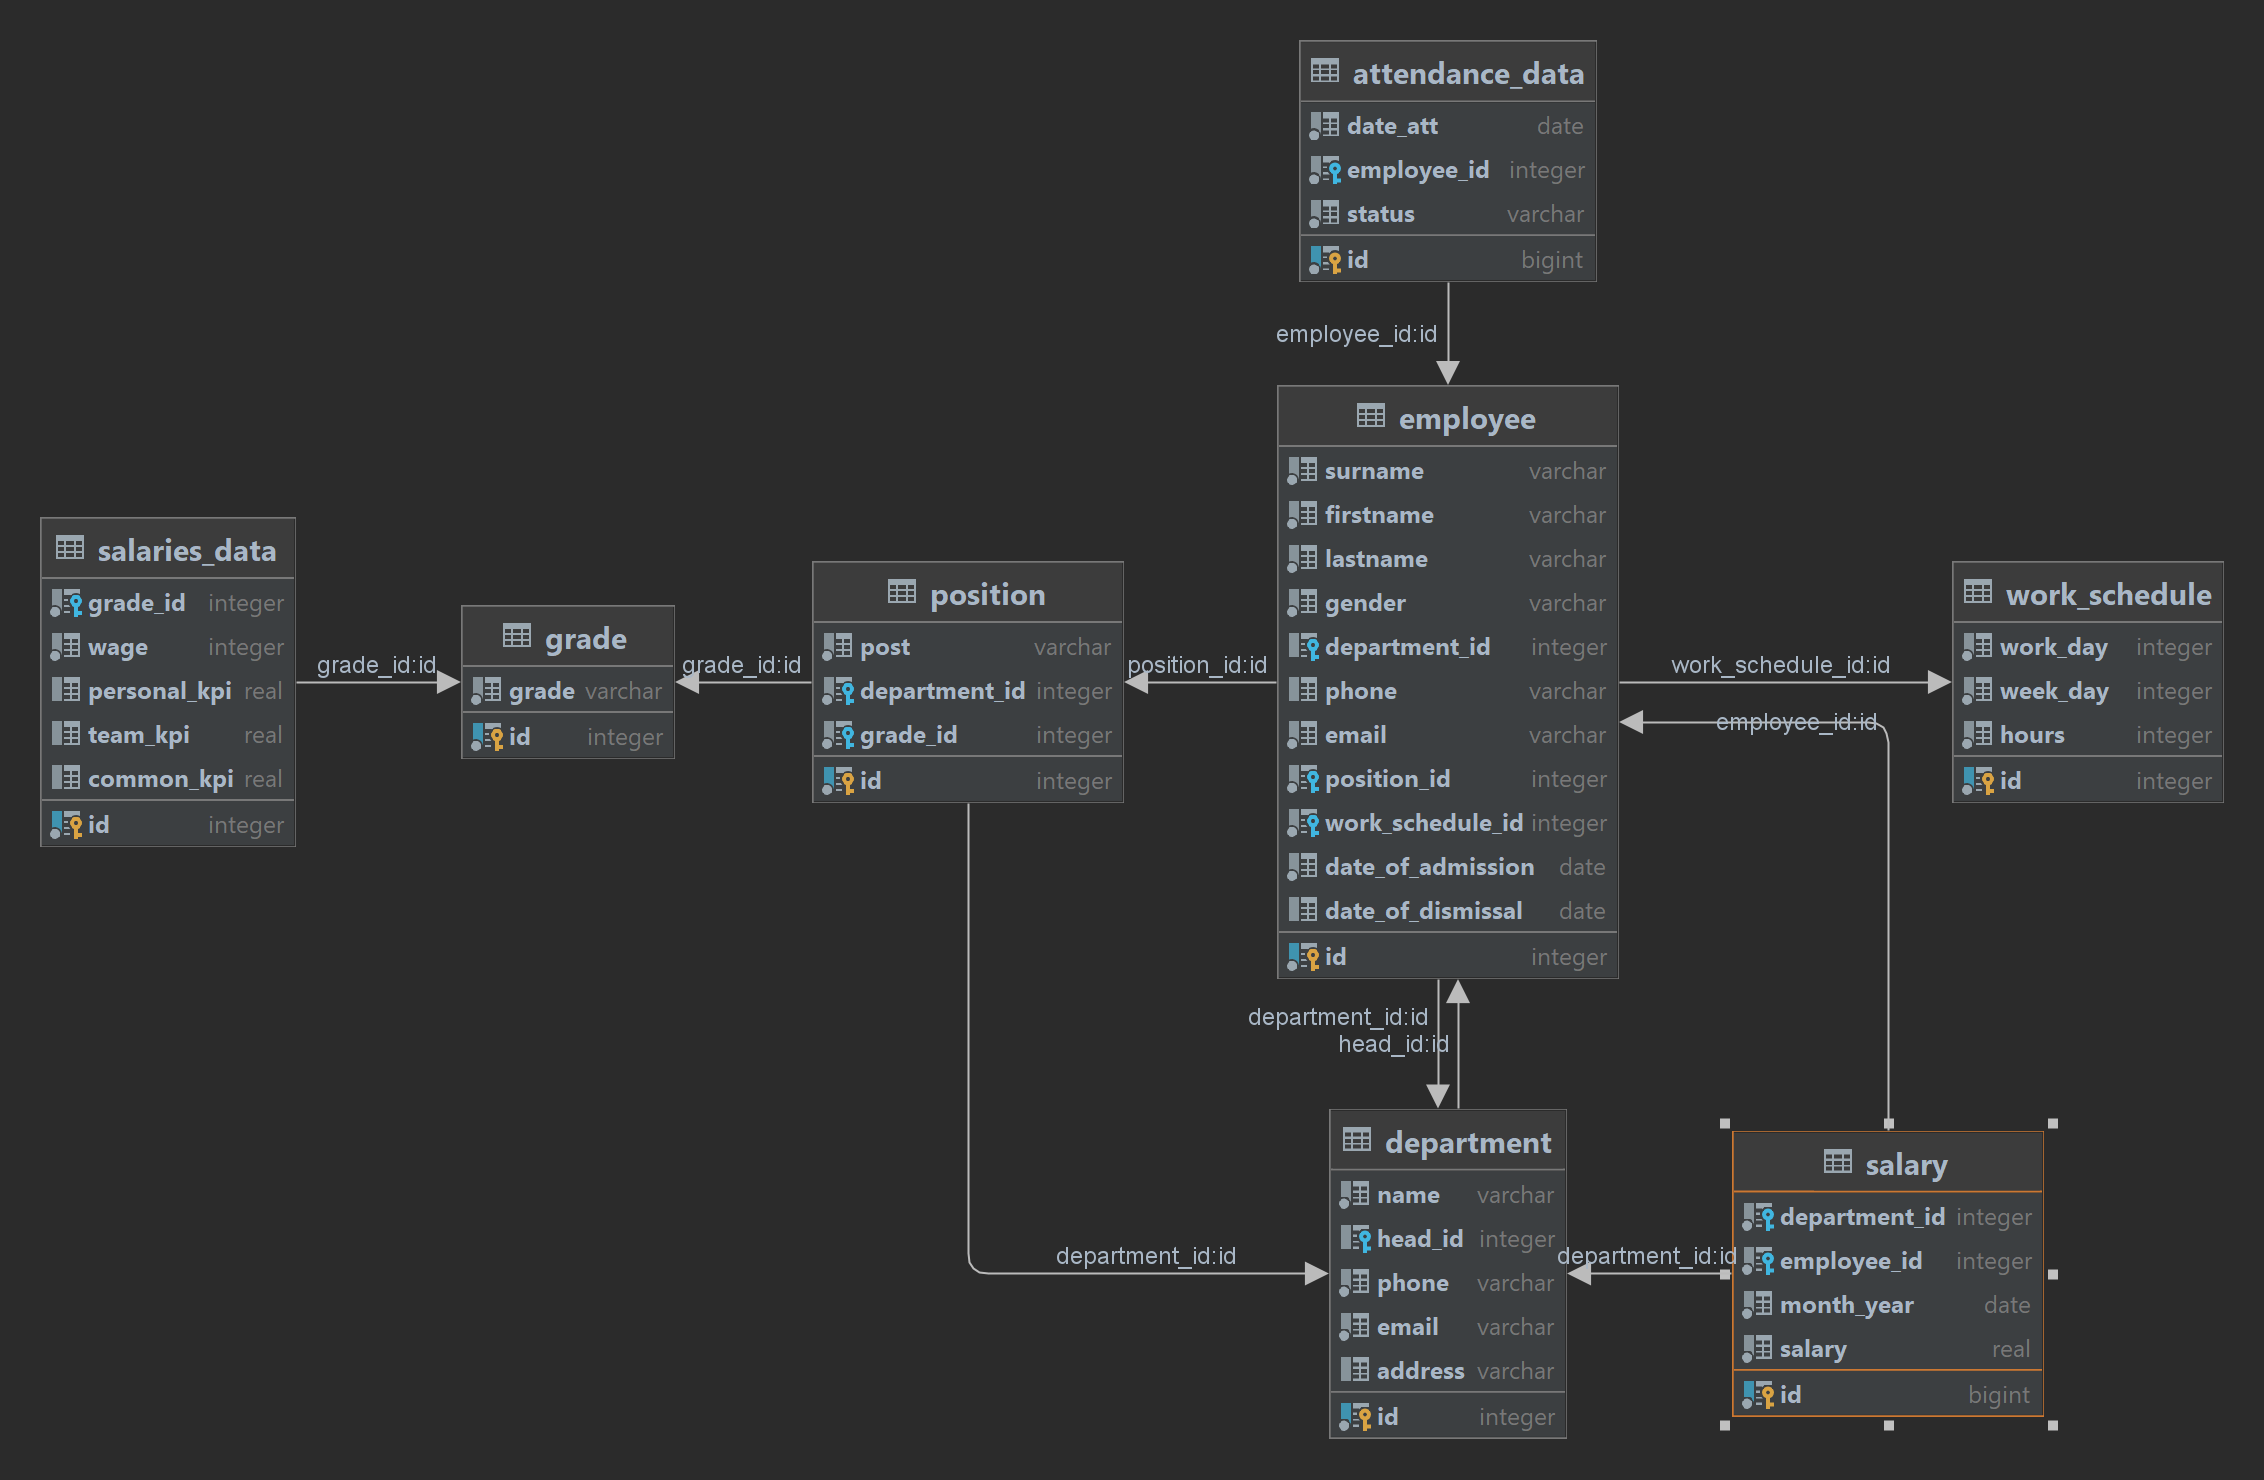
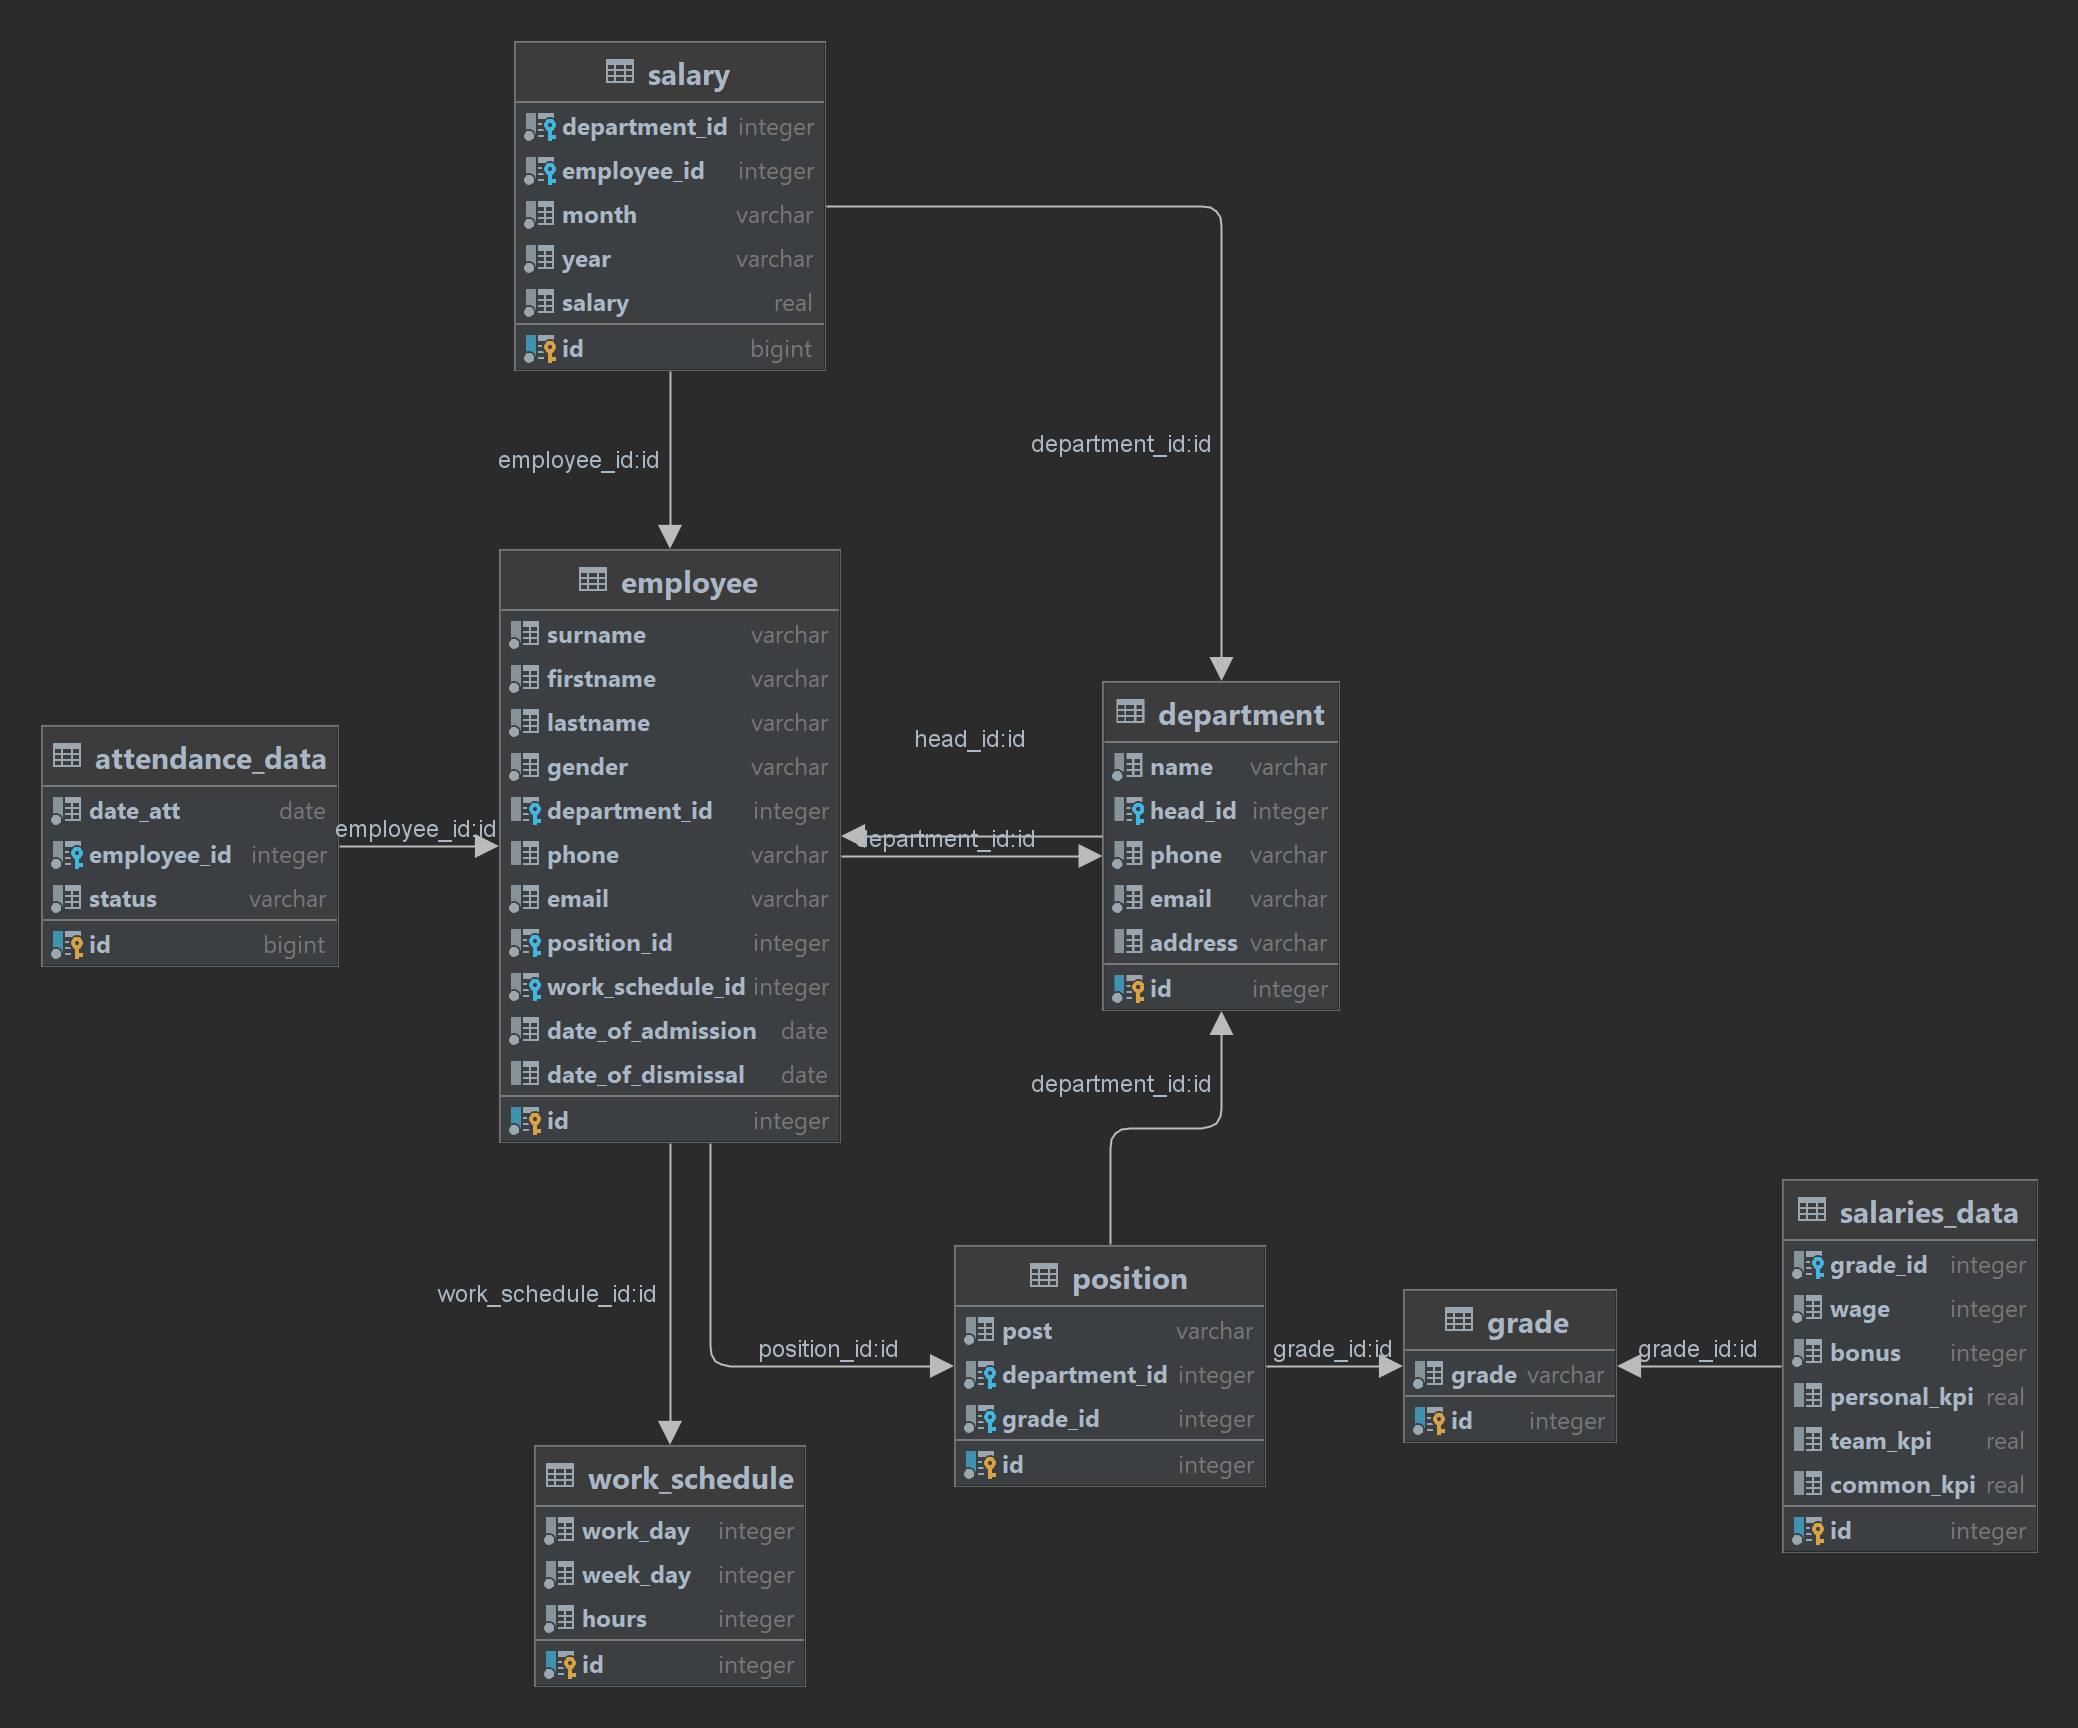
Fixed: add new db diagram

diff --git a/src/main/java/com/anybank/bankemployeessalaries/dao/impl/DepartmentDaoImpl.java b/src/main/java/com/anybank/bankemployeessalaries/dao/impl/DepartmentDaoImpl.java
@@ -144,7 +144,7 @@ public class DepartmentDaoImpl implements DepartmentDao {
         Department department = Department.builder()
                 .id(rs.getInt("id"))
                 .name(rs.getString("name"))
-                .head(employeeDao.findEmployeeById(rs.getString("head_id")))
+                .head(employeeDao.findEmployeeById(rs.getInt("head_id")))
                 .phone(rs.getString("phone"))
                 .email(rs.getString("email"))
                 .address(rs.getString("address"))

diff --git a/README.md b/README.md
@@ -33,7 +33,7 @@ public class BankEmployeesSalariesApplication {
 
 #### ER-диаграмма базы данных для приложения:
 
-![This is ER-diagramme](database_AES_v2.png)
+![This is ER-diagramme](AnyBankV1.png)
 
 <!-- #### Примеры запросов к базе данных:
 
